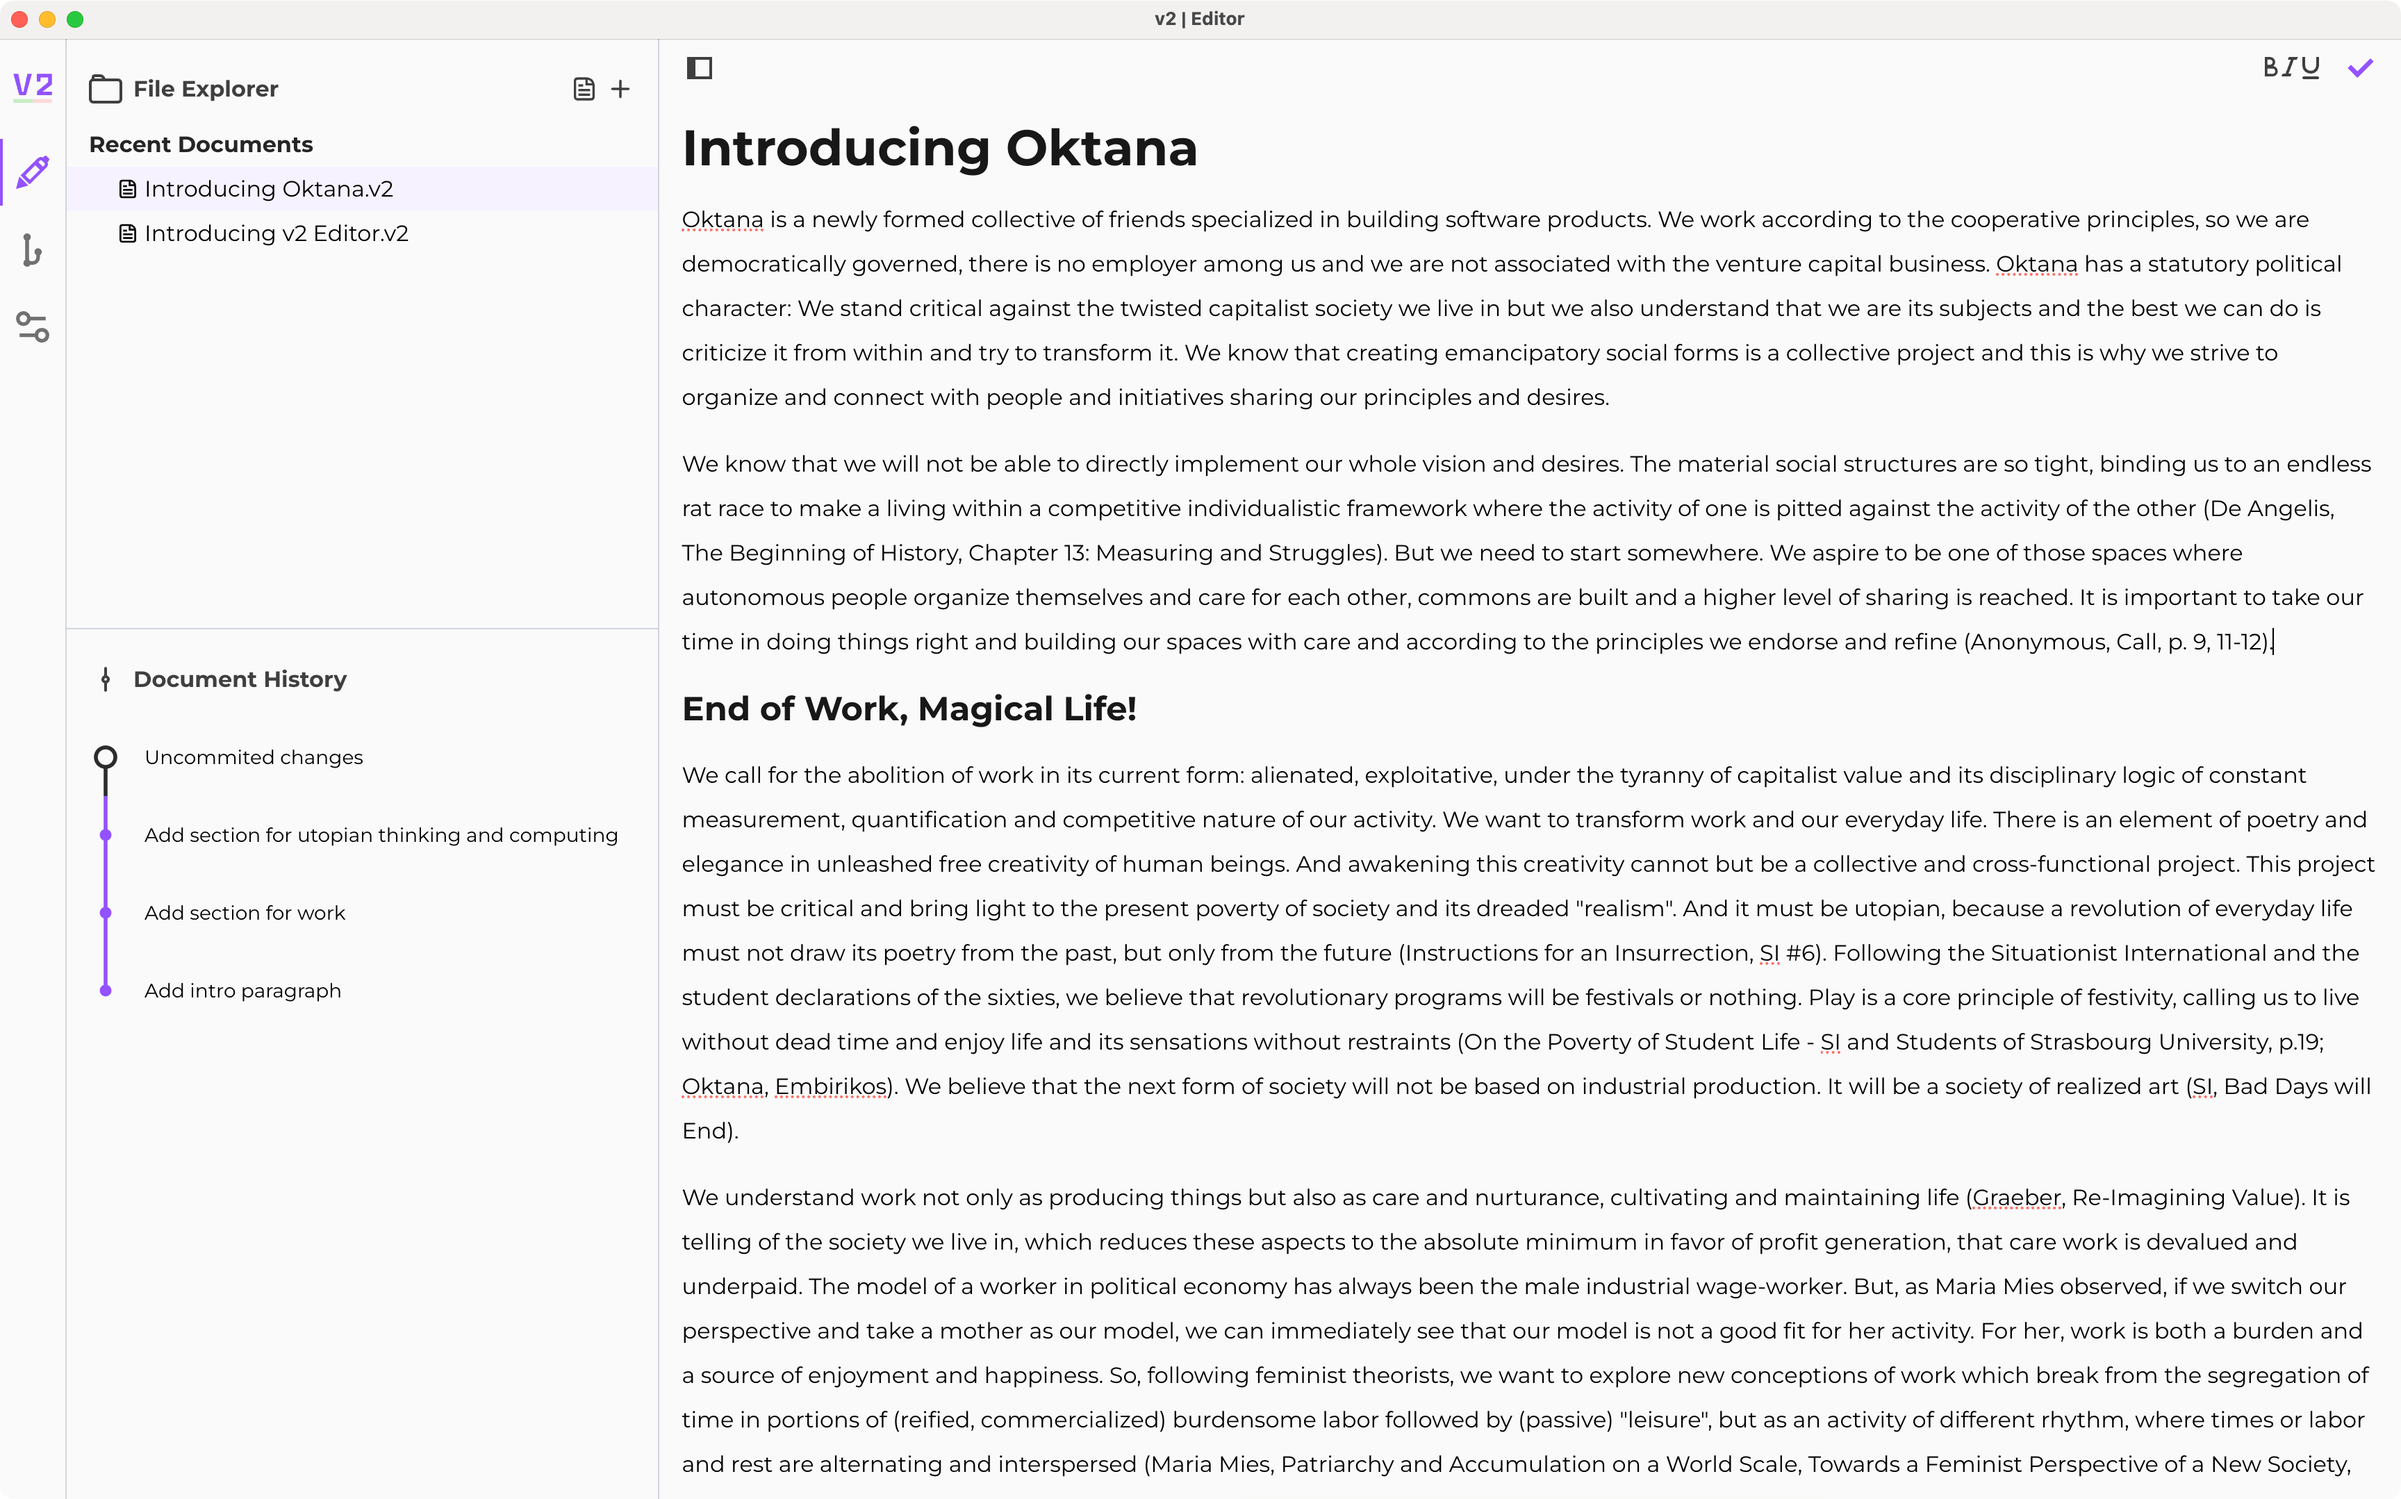
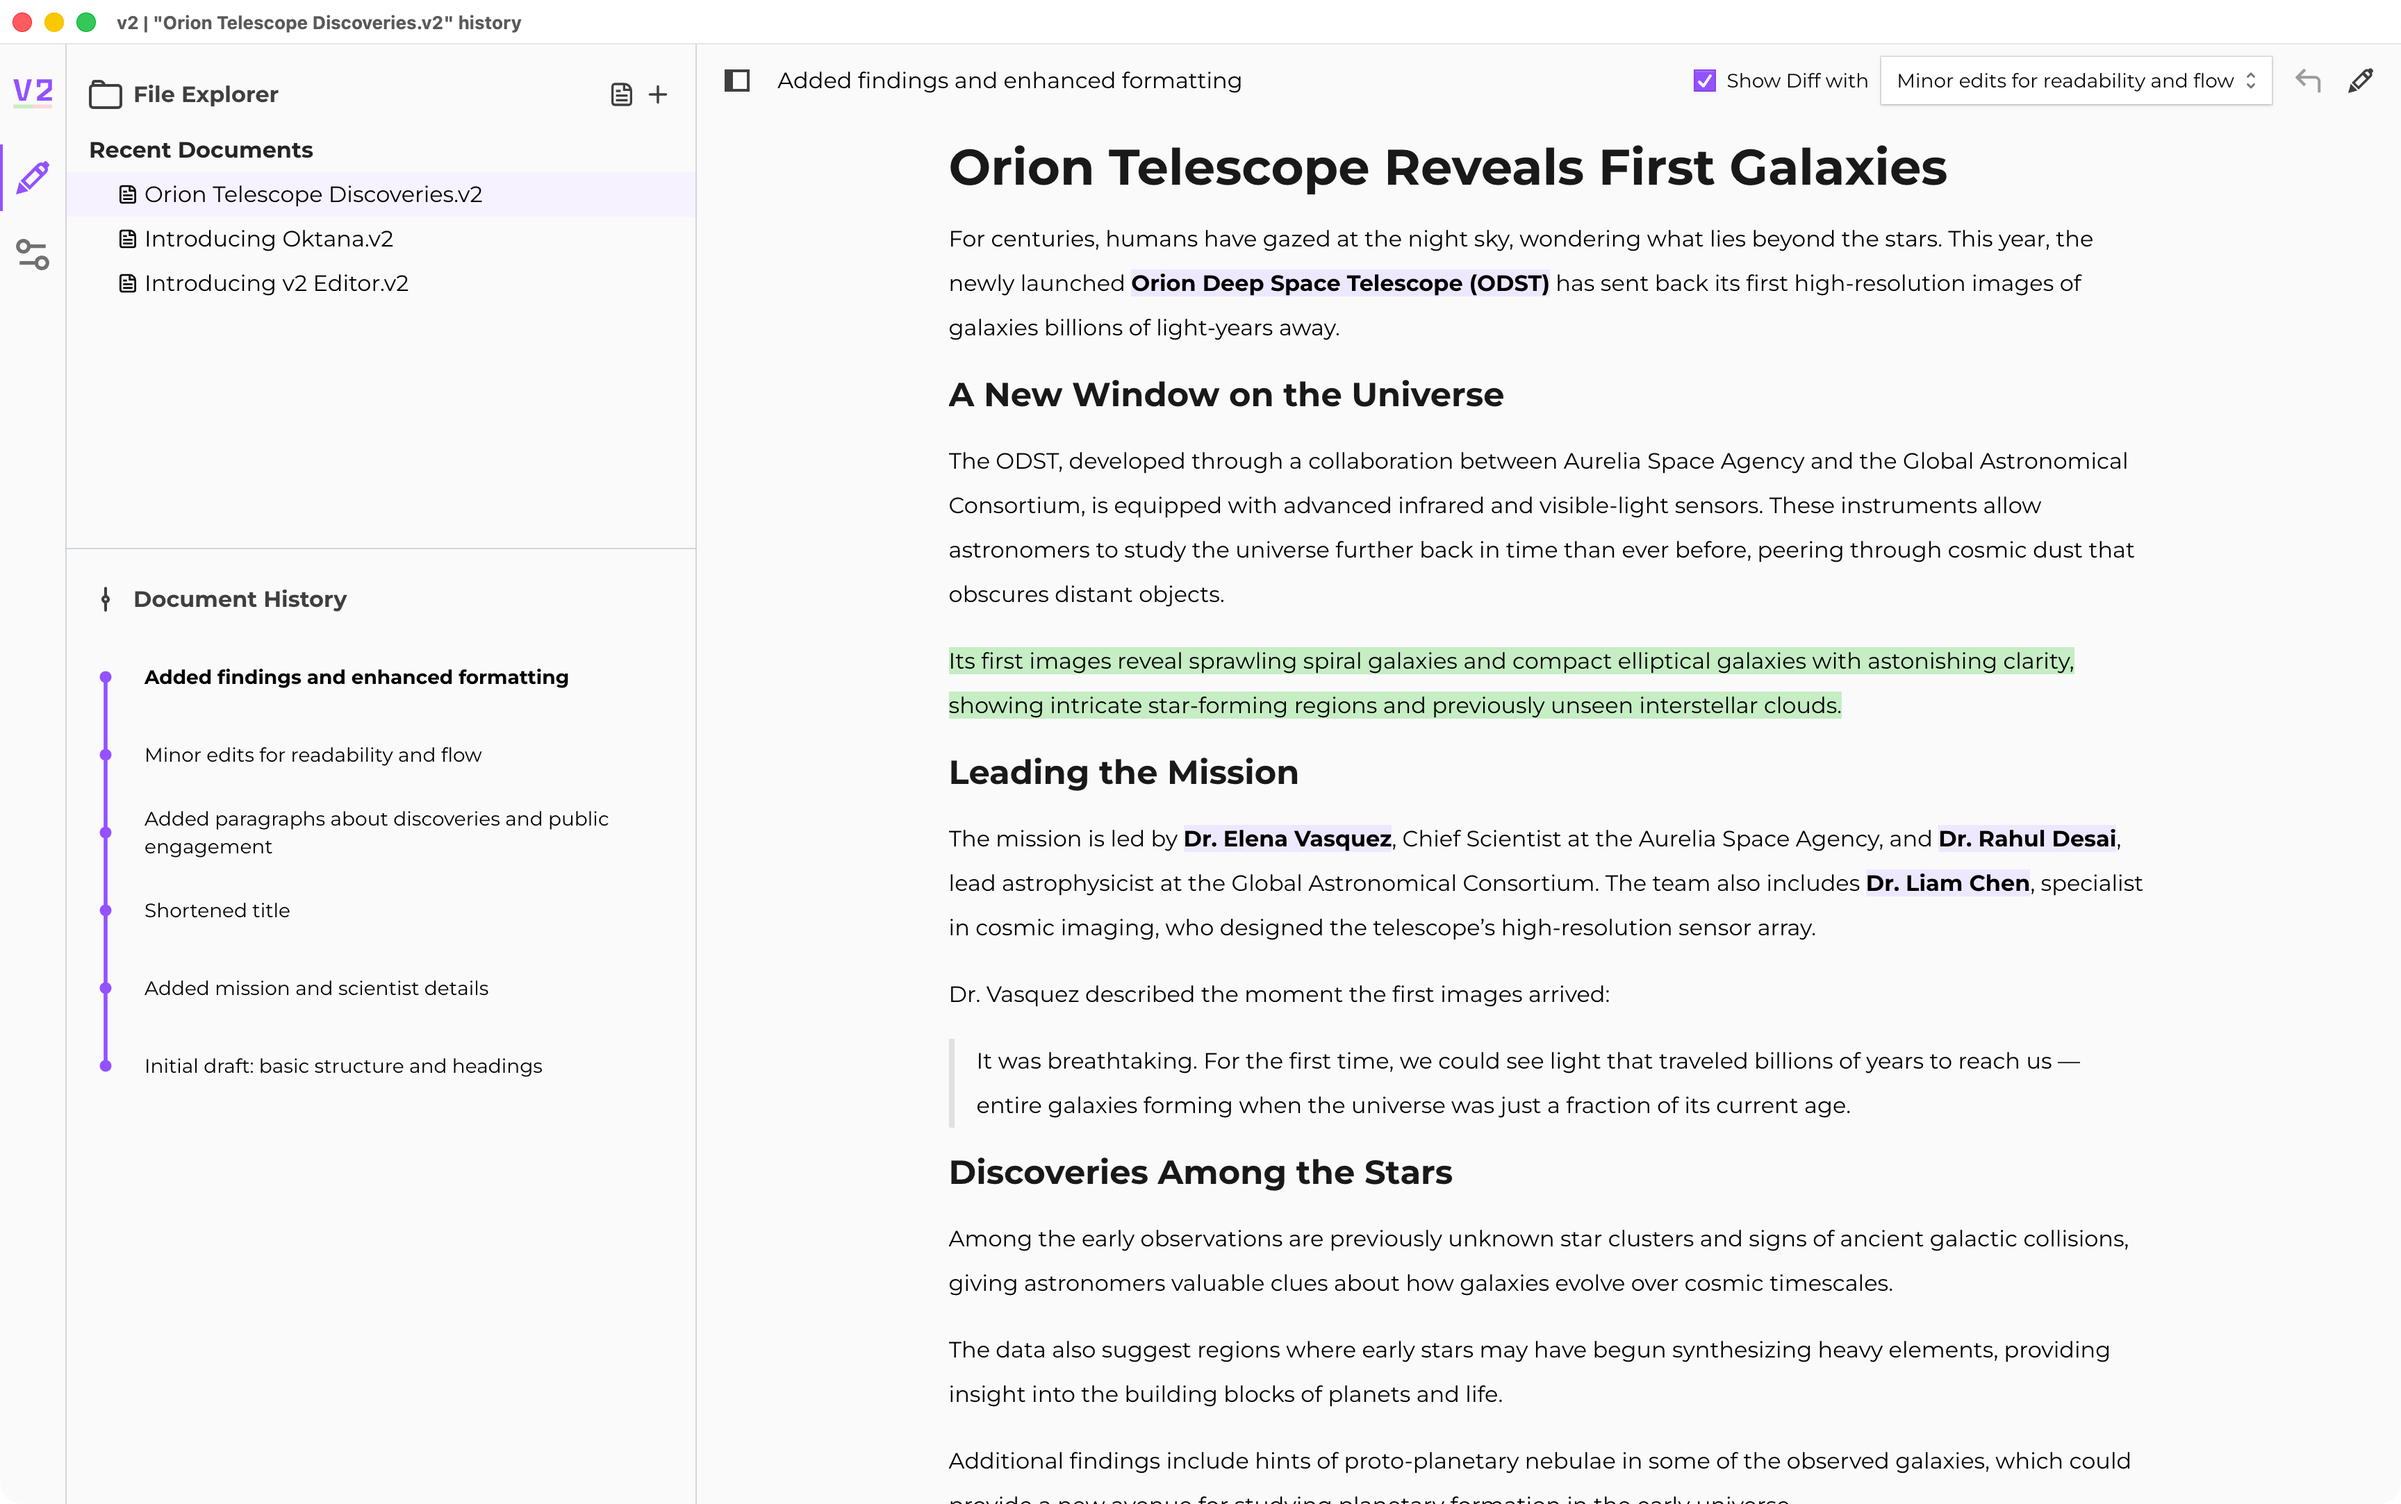
chore: update hero screenshot

diff --git a/docs/index.html b/docs/index.html
@@ -1,7 +1,7 @@
 <!DOCTYPE html><html lang="en"> <head><meta charset="UTF-8"><meta name="viewport" content="width=device-width"><!-- SEO --><title>v2 Editor</title><meta name="description" content="Edit fearlessly, collaborate asynchronously. v2 is a local-first rich-text editor with Git-style version control, true privacy, and complete control over your data"><!-- Open Graph --><meta property="og:title" content="v2 Editor"><meta property="og:description" content="Edit fearlessly, collaborate asynchronously. v2 is a local-first rich-text editor with Git-style version control, true privacy, and complete control over your data"><meta property="og:image" content="https://v2editor.com/v2-1200x630.png"><!-- Twitter --><meta name="twitter:title" content="v2 Editor"><meta name="twitter:description" content="Edit fearlessly, collaborate asynchronously. v2 is a local-first rich-text editor with Git-style version control, true privacy, and complete control over your data"><meta name="twitter:image" content="https://v2editor.com/v2-1200x630.png"><link rel="icon" type="image/svg+xml" href="/favicon.svg"><link rel="preconnect" href="https://fonts.googleapis.com"><link rel="preconnect" href="https://fonts.gstatic.com" crossorigin><link href="https://fonts.googleapis.com/css2?family=Noto+Sans:ital,wght@0,100..900;1,100..900&display=swap" rel="stylesheet"><link href="https://fonts.googleapis.com/css2?family=Spectral:wght@400;500;600;700&display=swap" rel="stylesheet"><meta name="generator" content="Astro v5.13.5"><title>v2 Editor</title><script type="module">function f(){const e="Edit Fearlessly. Collaborate Asynchronously.",a=document.getElementById("typewriter-text"),r=document.getElementById("typewriter-cursor");let t=0,o=100;const l=[{word:"Fearlessly",start:e.indexOf("Fearlessly"),end:e.indexOf("Fearlessly")+10},{word:"Asynchronously",start:e.indexOf("Asynchronously"),end:e.indexOf("Asynchronously")+14}];function d(c){return[...e.slice(0,c)].reduce((u,m,y)=>{let n="";return l.some(s=>y===s.start)&&(n+='<span class="font-bold">'),n+=m,l.some(s=>y===s.end-1)&&(n+="</span>"),u+n},"")}function i(){if(t<e.length)r.style.animationPlayState="paused",r.style.opacity="1",a.innerHTML=d(t+1),t++,o=Math.random()*100+50,setTimeout(i,o);else if(t===e.length){r.style.animationPlayState="running";return}}setTimeout(()=>{i()},1e3)}document.addEventListener("DOMContentLoaded",f);</script><script type="module" src="/_astro/Layout.astro_astro_type_script_index_1_lang.rgLGcGyh.js"></script><link rel="stylesheet" href="/_astro/index.Csu1hZsZ.css"></head> <body>  <main class="m-auto w-screen min-h-screen max-w-[1320px] bg-[#f6f5f1] flex flex-col md:gap-12">  <nav class="flex flex-initial justify-center items-center px-0 py-4 sm:py-6"> <a href="/" class="no-underline"> <img src="/_astro/v2-logo-light.CPHLPiY5_1hDAQ3.svg" alt="v2" loading="lazy" decoding="async" fetchpriority="auto" width="88" height="88" class="h-[64px] sm:h-[88px]"> </a> </nav> <div class="flex flex-col align-center px-6 gap-20 sm:gap-30 lg:gap-50"> <div class="flex flex-auto flex-col gap-12 sm:gap-18" data-astro-cid-hwyqfdn5> <div class="flex flex-col items-stretch gap-12" data-astro-cid-hwyqfdn5> <div class="flex flex-col items-center gap-6" data-astro-cid-hwyqfdn5> <h1 class="text-center text-[1.7rem] sm:text-4xl md:text-5xl font-serif" data-astro-cid-hwyqfdn5> <span class="typewriter-text" id="typewriter-text" data-astro-cid-hwyqfdn5></span> <span class="inline-block bg-purple-500 w-[3px] h-[1.1em] align-text-top typewriter-cursor" id="typewriter-cursor" data-astro-cid-hwyqfdn5></span> </h1> <p class="text-center text-base/6 sm:text-lg/7 md:text-xl/8 m-0 font-light" data-astro-cid-hwyqfdn5>
 A local-first editor with Git-style version control, true privacy, and
         complete control over your data
-</p> </div> <div class="flex flex-col sm:flex-row sm:justify-center gap-6" data-astro-cid-hwyqfdn5> <a href="https://github.com/oktana-coop/v2/releases/download/v0.3.45/v2-0.3.45-universal.dmg" id="download-btn-link" data-astro-cid-hwyqfdn5> <button type="button" class="inline-flex items-center justify-center bg-purple-500 text-sm/6 font-semibold text-white shadow-sm hover:bg-purple-500/80 focus-visible:outline focus-visible:outline-2 focus-visible:outline-offset-2 focus-visible:outline-purple-500 cursor-pointer gap-x-2 px-3.5 py-2.5 w-full sm:w-auto" id="download-btn"> <span id="download-btn-icon" class="-ml-0.5 size-6 inline-block"> <svg width="1em" height="1em" aria-hidden="true" class="w-full h-full" data-icon="fa-apple">   <symbol id="ai:local:fa-apple" viewBox="0 0 640 640"><path fill="currentColor" d="M447.1 332.7c-.2-36.7 16.4-64.4 50-84.8-18.8-26.9-47.2-41.7-84.7-44.6-35.5-2.8-74.3 20.7-88.5 20.7-15 0-49.4-19.7-76.4-19.7-55.8.9-115.1 44.5-115.1 133.2 0 26.2 4.8 53.3 14.4 81.2 12.8 36.7 59 126.7 107.2 125.2 25.2-.6 43-17.9 75.8-17.9 31.8 0 48.3 17.9 76.4 17.9 48.6-.7 90.4-82.5 102.6-119.3-65.2-30.7-61.7-90-61.7-91.9m-56.6-164.2c27.3-32.4 24.8-61.9 24-72.5-24.1 1.4-52 16.4-67.9 34.9-17.5 19.8-27.8 44.3-25.6 71.9 26.1 2 49.9-11.4 69.5-34.3"/></symbol><use href="#ai:local:fa-apple"></use>  </svg> </span> <span id="download-btn-text">Download for macOS (Early Access)</span> </button></a> <a href="https://oktana.dev/blog/introducing-v2-editor" target="_blank" rel="noopener" data-astro-cid-hwyqfdn5><button type="button" class="text-sm/6 font-semibold text-purple-500 shadow-sm ring-1 ring-inset ring-purple-500 hover:bg-purple-50 cursor-pointer gap-x-2 px-3.5 py-2.5 w-full sm:w-auto">  <span>Read the Manifesto</span> </button></a> </div> </div> <div class="flex justify-center" data-astro-cid-hwyqfdn5> <img src="/_astro/v2-screenshot.B9xNoR4w_Z2q48rf.webp" alt="v2 screenshot showing document editing" data-astro-cid-hwyqfdn5="true" loading="lazy" decoding="async" fetchpriority="auto" width="1920" height="1199" class="drop-shadow-xl/25"> </div> </div>  <div class="flex flex-col gap-10"> <div class="flex flex-col items-center gap-4"> <h2 class="text-2xl sm:text-3xl md:text-4xl font-serif font-bold leading-none text-center"> Version Control </h2> <p class="max-w-xl text-center text-base/6 sm:text-lg/7 md:text-xl/8 m-0 font-light">
+</p> </div> <div class="flex flex-col sm:flex-row sm:justify-center gap-6" data-astro-cid-hwyqfdn5> <a href="https://github.com/oktana-coop/v2/releases/download/v0.3.45/v2-0.3.45-universal.dmg" id="download-btn-link" data-astro-cid-hwyqfdn5> <button type="button" class="inline-flex items-center justify-center bg-purple-500 text-sm/6 font-semibold text-white shadow-sm hover:bg-purple-500/80 focus-visible:outline focus-visible:outline-2 focus-visible:outline-offset-2 focus-visible:outline-purple-500 cursor-pointer gap-x-2 px-3.5 py-2.5 w-full sm:w-auto" id="download-btn"> <span id="download-btn-icon" class="-ml-0.5 size-6 inline-block"> <svg width="1em" height="1em" aria-hidden="true" class="w-full h-full" data-icon="fa-apple">   <symbol id="ai:local:fa-apple" viewBox="0 0 640 640"><path fill="currentColor" d="M447.1 332.7c-.2-36.7 16.4-64.4 50-84.8-18.8-26.9-47.2-41.7-84.7-44.6-35.5-2.8-74.3 20.7-88.5 20.7-15 0-49.4-19.7-76.4-19.7-55.8.9-115.1 44.5-115.1 133.2 0 26.2 4.8 53.3 14.4 81.2 12.8 36.7 59 126.7 107.2 125.2 25.2-.6 43-17.9 75.8-17.9 31.8 0 48.3 17.9 76.4 17.9 48.6-.7 90.4-82.5 102.6-119.3-65.2-30.7-61.7-90-61.7-91.9m-56.6-164.2c27.3-32.4 24.8-61.9 24-72.5-24.1 1.4-52 16.4-67.9 34.9-17.5 19.8-27.8 44.3-25.6 71.9 26.1 2 49.9-11.4 69.5-34.3"/></symbol><use href="#ai:local:fa-apple"></use>  </svg> </span> <span id="download-btn-text">Download for macOS (Early Access)</span> </button></a> <a href="https://oktana.dev/blog/introducing-v2-editor" target="_blank" rel="noopener" data-astro-cid-hwyqfdn5><button type="button" class="text-sm/6 font-semibold text-purple-500 shadow-sm ring-1 ring-inset ring-purple-500 hover:bg-purple-50 cursor-pointer gap-x-2 px-3.5 py-2.5 w-full sm:w-auto">  <span>Read the Manifesto</span> </button></a> </div> </div> <div class="flex justify-center" data-astro-cid-hwyqfdn5> <img src="/_astro/v2-screenshot.Ltjzhhxq_1i7TBi.webp" alt="v2 screenshot showing document editing" data-astro-cid-hwyqfdn5="true" loading="lazy" decoding="async" fetchpriority="auto" width="3456" height="2166" class="drop-shadow-xl/25"> </div> </div>  <div class="flex flex-col gap-10"> <div class="flex flex-col items-center gap-4"> <h2 class="text-2xl sm:text-3xl md:text-4xl font-serif font-bold leading-none text-center"> Version Control </h2> <p class="max-w-xl text-center text-base/6 sm:text-lg/7 md:text-xl/8 m-0 font-light">
 Branch, experiment, and revert without fear. See how your document evolves
       with clear diff views and full history.
 </p> </div> <div class="flex justify-center"> <img src="/_astro/v2-screenshot-versioning.BMT5NEGo_143Scn.webp" alt="v2 screenshot showing version control capabilities" loading="lazy" decoding="async" fetchpriority="auto" width="3456" height="2158" class="drop-shadow-xl/25"> </div> </div> <div class="flex flex-col lg:flex-row gap-10"> <div class="w-full lg:w-1/2 flex flex-col gap-4 justify-center"> <h2 class="text-2xl sm:text-3xl md:text-4xl font-serif font-bold leading-none "> Content over Formatting </h2> <div class="block lg:hidden w-full lg:w-1/2 flex justify-center"> <img src="/_astro/v2-screenshot-rich-text.C3IRApiX_Z29dVD1.webp" alt="v2 screenshot showing version control capabilities" loading="lazy" decoding="async" fetchpriority="auto" width="1776" height="1320" class="drop-shadow-xl/25"> </div> <p class="text-base/6 sm:text-lg/7 md:text-xl/8 m-0 font-light">
